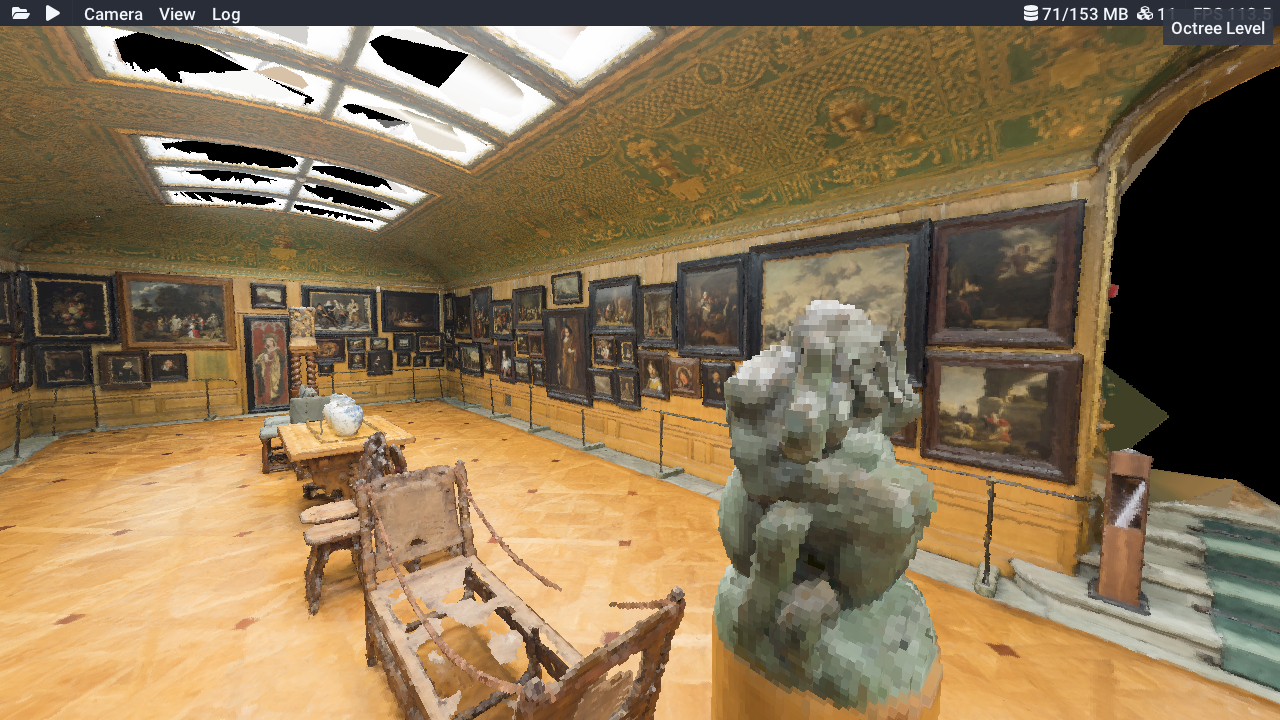
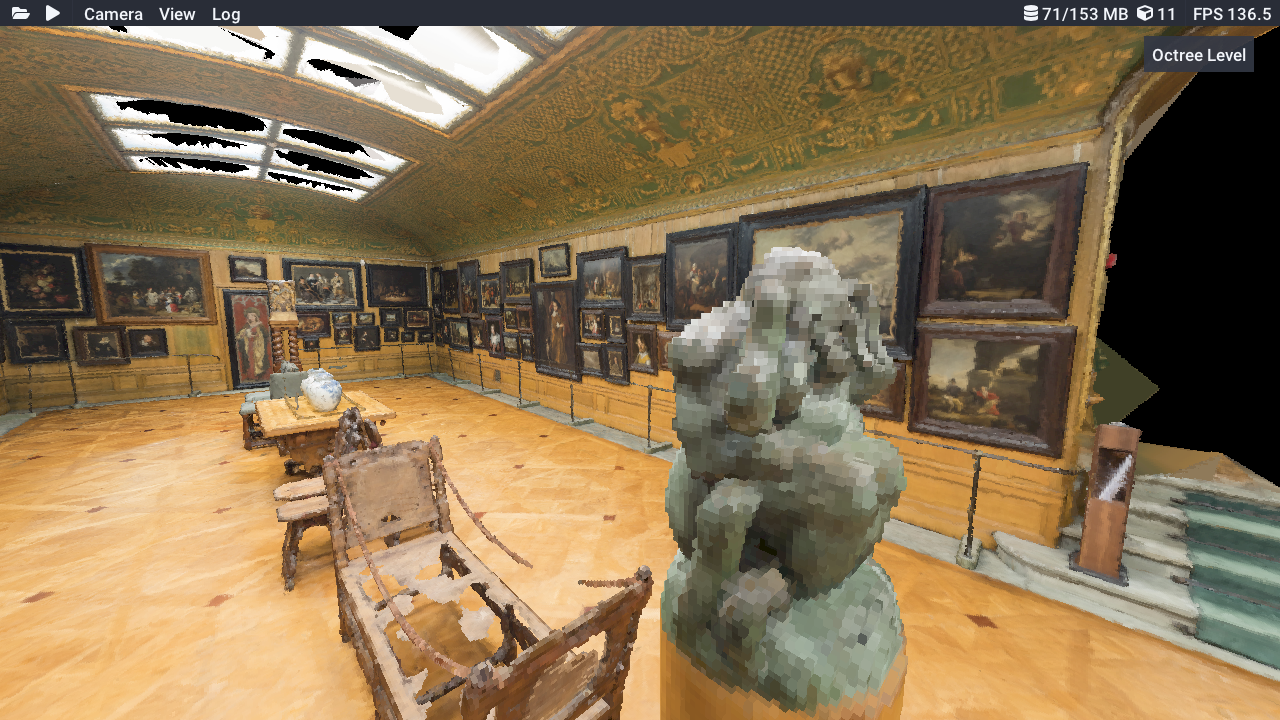
small changes

diff --git a/src/Application.cpp b/src/Application.cpp
@@ -453,7 +453,7 @@ void Application::ui_menubar() {
 		ImGui::SameLine(indent_w);
 		ImGui::Separator();
 
-		sprintf(buf, ICON_FA_CUBES " %d", m_octree->GetLevel());
+		sprintf(buf, ICON_FA_CUBE " %d", m_octree->GetLevel());
 		indent_w -= ImGui::CalcTextSize(buf).x + 8;
 		ImGui::SameLine(indent_w);
 		ImGui::TextUnformatted(buf);
